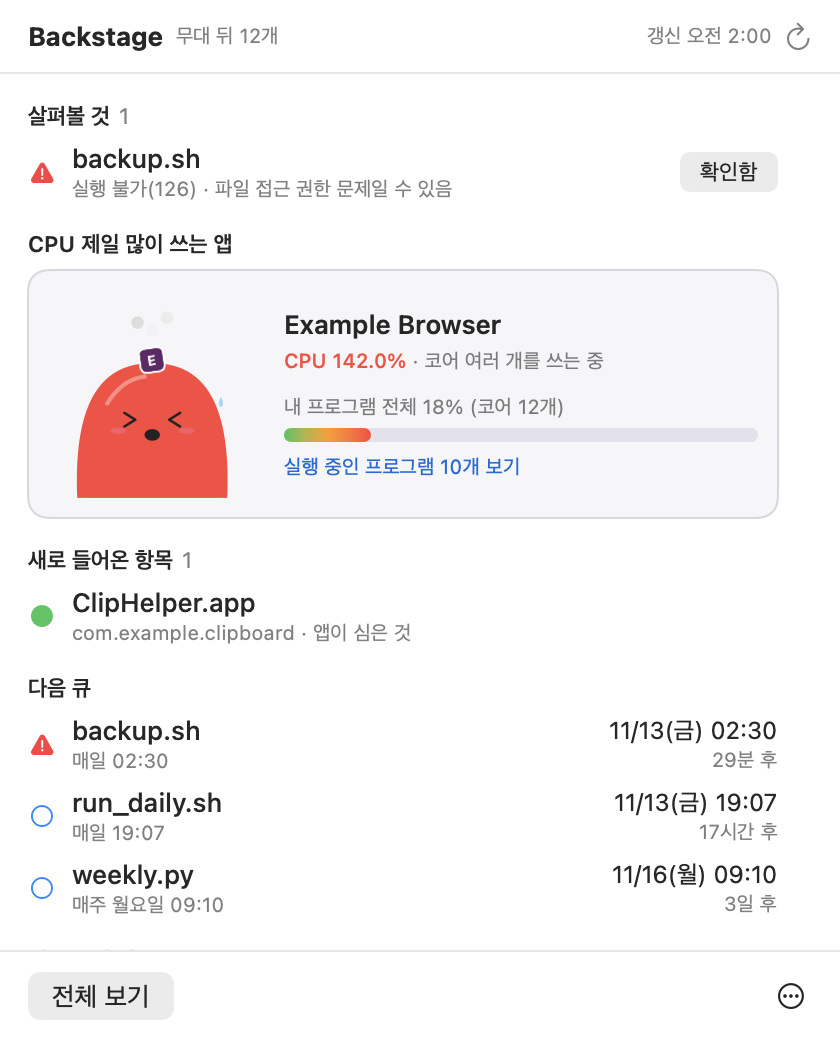
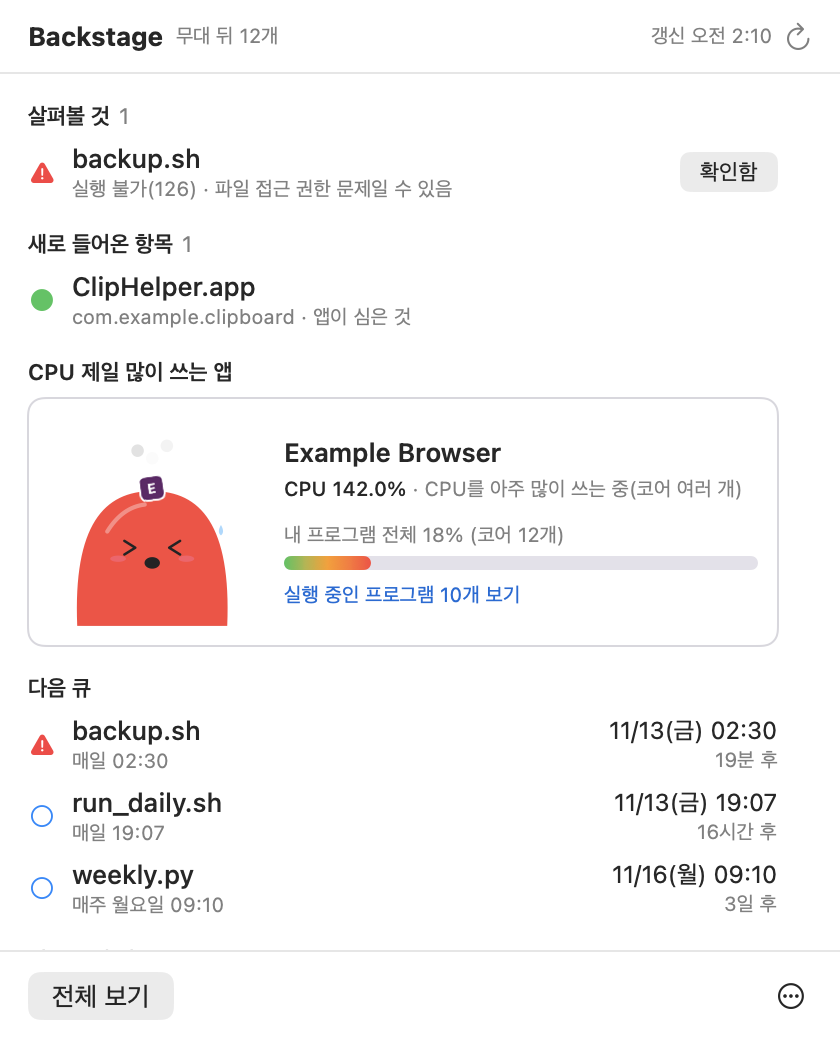
fix: 리뷰 반영 — 패널 카드 접근성·대비, 종료 문구, 무대 배율
- 패널 카드의 캐릭터를 VoiceOver 와 마우스에서 빼고(누를 수 없는데 버튼으로 읽혔다), CPU 글자는 기본 글자색으로
- 패널 카드를 '새로 들어온 항목' 아래로, 로그인 안내 카드와 같은 모양으로
- 확인창 제목을 버튼과 같은 '종료'로, 높은 CPU 상태 문구를 판단에 쓸 수 있게
- 무대 배율을 0.05 단위로 끊어 창 크기를 바꾸는 동안 캐릭터를 계속 다시 굽지 않게
- '그 밖에' 칩 세로 여백 6, 결정기록·디자인 시스템에 메뉴바 아이콘과 패널 카드 규격

Claude-Session: https://claude.ai/code/session_01AH2xhgZmJkP1Gxjp95S1CN

diff --git a/Sources/Backstage/ProcsView.swift b/Sources/Backstage/ProcsView.swift
@@ -151,12 +151,14 @@ struct BusiestCard: View {
             let (pct, cores) = SummaryStrip.total(groups)
             let m = BlobMetrics(cpu: g.cpu)
             HStack(alignment: .center, spacing: 14) {
+                // 꾸밈용: 누를 수 없고, 옆 글자가 같은 내용을 읽어 주므로 VoiceOver 에서 뺀다
                 Character(group: g, selected: false, showLabel: false)
+                    .allowsHitTesting(false).accessibilityHidden(true)
                     .scaleEffect(min(1, Self.box / (m.height + Character.overTop)), anchor: .bottom)
                     .frame(width: Self.box, height: Self.box, alignment: .bottom)
                 VStack(alignment: .leading, spacing: 4) {
                     Text(g.name).fontWeight(.semibold).lineLimit(1)
-                    (Text(String(format: "CPU %.1f%%", g.cpu)).foregroundColor(Palette.tint(g.cpu)).bold()
+                    (Text(String(format: "CPU %.1f%%", g.cpu)).foregroundColor(.primary).bold()
                      + Text(" · \(g.mood.text)")).font(.caption).foregroundStyle(.secondary).lineLimit(2)
                     Spacer().frame(height: 2)
                     Text("내 프로그램 전체 \(Int(pct.rounded()))% (코어 \(cores)개)").font(.caption).foregroundStyle(.secondary)
@@ -167,8 +169,8 @@ struct BusiestCard: View {
                 .frame(maxWidth: .infinity, alignment: .leading)
             }
             .padding(10)
-            .background(RoundedRectangle(cornerRadius: 10).fill(Palette.window))
-            .overlay(RoundedRectangle(cornerRadius: 10).stroke(Palette.line))
+            .background(RoundedRectangle(cornerRadius: 8).fill(Color(nsColor: .controlBackgroundColor)))   // 패널의 로그인 안내 카드와 같은 모양
+            .overlay(RoundedRectangle(cornerRadius: 8).stroke(Palette.line))
         } else {
             Text(store.procsLoaded ? "실행 중인 내 프로그램이 없어요." : "살펴보는 중…")
                 .font(.callout).foregroundStyle(.secondary)
@@ -226,7 +228,7 @@ struct Stage: View {
             Button("표에서 보기", action: showTable)
         } label: {
             Text("그 밖에 \(hidden.count)개 · 표에서 보기").font(.system(size: 12)).foregroundStyle(.secondary)
-                .padding(.horizontal, 10).padding(.vertical, 4)
+                .padding(.horizontal, 10).padding(.vertical, 6)
                 .background(Capsule().fill(Palette.surface))
                 .overlay(Capsule().stroke(Palette.line))
         }
@@ -243,7 +245,8 @@ struct Stage: View {
         func layout(_ n: Int) -> (zoom: CGFloat, shrink: CGFloat) {
             let bodies = groups.prefix(n).reduce(0) { $0 + BlobMetrics(cpu: $1.cpu).width }
             let gaps = gap * CGFloat(max(n - 1, 0))
-            let zoom = max(1, min(target, (room - gaps) / max(bodies, 1)))
+            // 0.05 단위로 끊는다. 창 크기를 바꾸는 동안 배율이 조금씩 변할 때마다 캐릭터 그림을 다시 굽지 않게.
+            let zoom = max(1, (min(target, (room - gaps) / max(bodies, 1)) * 20).rounded(.down) / 20)
             return (zoom, min(1, room / max(bodies * zoom + gaps, 1)))
         }
         // 많이 올리되, 그 때문에 목표 크기의 80%보다 작아지지는 않게
@@ -712,7 +715,7 @@ struct QuitSheet: View {
             VStack(spacing: 8) {
                 switch flow.step {
                 case .confirm:
-                    Text("\(withJosa(g.name, isApp: g.appPath != nil, "을", "를")) 끌까요?").font(.system(size: 14, weight: .bold))
+                    Text("\(withJosa(g.name, isApp: g.appPath != nil, "을", "를")) 종료할까요?").font(.system(size: 14, weight: .bold))
                     Text("CPU \(String(format: "%.1f", g.cpu))% · 프로세스 \(g.procs.count)개\n"
                          + (g.appPath != nil ? "저장하지 않은 문서가 있으면 앱이 물어봐요." : "프로그램에 종료 신호를 보내요."))
                         .font(.system(size: 13)).foregroundStyle(.secondary).multilineTextAlignment(.center)

diff --git a/Sources/Backstage/PopoverView.swift b/Sources/Backstage/PopoverView.swift
@@ -62,16 +62,16 @@ struct PopoverView: View {
                         }
                     }
 
-                    section("CPU 제일 많이 쓰는 앱", count: nil) {
-                        BusiestCard(store: store, open: openProcs)
-                    }
-
                     if !arrivals.isEmpty {
                         section("새로 들어온 항목", count: arrivals.count) {
                             ForEach(arrivals.prefix(5)) { j in
                                 row(j, sub: "\(OwnerLookup.shared.info(j.owner, missing: j.ownerMissing).name) · \(j.source.rawValue)") { EmptyView() }
                             }
                         }
+                    }
+
+                    section("CPU 제일 많이 쓰는 앱", count: nil) {
+                        BusiestCard(store: store, open: openProcs)
                     }
 
                     section("다음 큐", count: nil) {

diff --git a/Sources/BackstageCore/AppGroups.swift b/Sources/BackstageCore/AppGroups.swift
@@ -92,8 +92,8 @@ public enum CPUMood: String, Sendable {
         case .sleep: "자는 중"
         case .happy: "가볍게 일하는 중"
         case .busy: "열심히 일하는 중"
-        case .sweat: "땀 흘리며 일하는 중"
-        case .boil: "코어 여러 개를 쓰는 중"
+        case .sweat: "CPU를 많이 쓰는 중"
+        case .boil: "CPU를 아주 많이 쓰는 중(코어 여러 개)"
         }
     }
 }

diff --git a/docs/결정기록.md b/docs/결정기록.md
@@ -14,4 +14,7 @@
 ## 2026-11-13 무대 크기, 메뉴바 카드, 앱 아이콘
 - **무대 빈 곳**: 캐릭터를 무대 높이에 맞춰 최대 2배까지 직접 크게 그린다. 폭이 모자라면 무대에 올리는 수를 7개에서 4개까지 줄인다. '그 밖에' 메뉴는 무대 오른쪽 위로 옮겼다.
 - **메뉴바 패널**: CPU 제일 많이 쓰는 앱 하나만 캐릭터로 보여 준다. 패널이 열려 있는 동안만 ps 를 돈다.
-- **앱 아이콘**: 커튼 + 시계 대신 밝은 바탕의 큰 초록 캐릭터 하나(B안). 세 시안(무대 + 캐릭터 / 큰 캐릭터 / 세 캐릭터) 중 사용자가 골랐다. 작은 크기에서 가장 또렷하다. 메뉴바 아이콘(막)은 그대로 둔다. 검토 자료: `~/Documents/검토요청/2026-11-13_Backstage-아이콘시안/`.
+- **앱 아이콘**: 커튼 + 시계 대신 밝은 바탕의 큰 초록 캐릭터 하나(B안). 세 시안(무대 + 캐릭터 / 큰 캐릭터 / 세 캐릭터) 중 사용자가 골랐다. 작은 크기에서 가장 또렷하다. 검토 자료: `~/Documents/검토요청/2026-11-13_Backstage-아이콘시안/`.
+- **메뉴바 아이콘**: `curtains.closed` 가 메뉴바 크기에서 수건걸이처럼 보인다는 사용자 의견으로, 앱 아이콘과 같은 캐릭터 실루엣(18pt 템플릿, 눈·입은 뚫음)으로 바꿨다. 실패 경고일 때는 SF Symbol 경고 삼각형 + 개수.
+- **자기 CPU**: Backstage 는 ps 를 부르는 순간 목록을 모으느라 바빠서 ps 순간값이 부풀려진다(창 열 때 37%, 갱신 때 10~18%, 나머지 0%). 목록의 자기 줄은 갱신 사이 평균(getrusage)으로 바꿔 넣는다.
+- **문구**: 화면 문구를 해요체로 통일. `이(가)`·`을(를)` 대신 이름에 맞춰 조사를 고르고, 영어 이름이면 "앱"·"프로그램"을 붙인다.

diff --git a/docs/design/DESIGN_SYSTEM.md b/docs/design/DESIGN_SYSTEM.md
@@ -37,3 +37,7 @@
 ## 컴포넌트
 - `DangerButtonStyle`: 빨간 바탕 흰 글자. 종료·강제 종료에만 쓴다.
 - 확인창(`QuitSheet`): 무대 위 반투명 덮개 + 가운데 위쪽 카드(폭 320). 단계: 확인 → 기다리는 중(초 세기) → 안 꺼짐(기다리기 / 강제 종료).
+
+## 메뉴바·패널
+- 메뉴바 아이콘: 18pt 템플릿 이미지. 블롭 실루엣(폭 14, 높이 13.5)에 두 눈(지름 2.5)과 웃는 입(선 1.1)을 투명하게 뚫는다. 실패 경고 때는 `exclamationmark.triangle.fill` + 개수.
+- 패널 카드: `controlBackgroundColor` 바탕, 모서리 8, `line` 테두리. 로그인 안내와 'CPU 제일 많이 쓰는 앱' 카드가 같이 쓴다. 카드 안 수치 글자는 `.primary`(몸 색 글자는 라이트에서 대비가 모자람).
